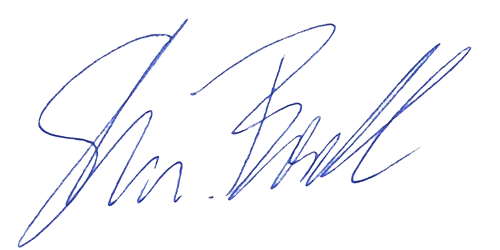
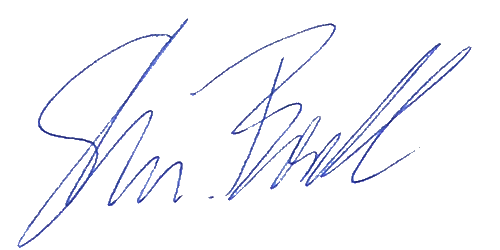
Better map and signature, better stylling, css cleanout

diff --git a/folder_css/style.css b/folder_css/style.css
@@ -20,14 +20,9 @@
 /* #region jobs to-do */
 /*
 !                           to-do 
-todo    Signatur richtig machen
-todo    Porjekte Headline with small display - decision
-todo    Bei der Navbar muss irgendeine coole Grafik, Animation oder ähnliches passieren, damit das nicht so fad ist.
-todo    Header navbar overflow at small screens
-todo    Animation header and hedlines
-todo    Media queries für h1!
-todo    Teste den  media querie in der :root ob die eine Auswirkung hat.
-todo    Bei den Projekten: Das die Position der Beschreibung von der Länge des Links bhängt ist alles andere als optimal! 
+todo    handle navbar overflow on small screens!
+todo    project-headline sticky position doesnt work so good on small display.
+todo    Bei den Projekten: Das Position der Beschreibung von der Länge des Links bhängt ist alles andere als optimal! 
 todo    about page: Mach eine Fotoserie daraus mit hovers, damit sich da was tut. 
 todo    about page Map muss gemacht werden (Farbanpaasung + Marker in Wien [vielleicht mit hover ])
 todo    Bei translate ändert sich die Textlänge stark, dass bitte beim Landkarten re-design berücksichtigen (Größe)!
@@ -40,7 +35,6 @@ todo    Finish Table of content. All commented out? Summed all possible rules?
 /*#region CSS-Setup */
 
 /*? ===  font(s) === */
-
 /* futura */
 @import url("https://use.typekit.net/izw3hmc.css");
 
@@ -71,66 +65,58 @@ todo    Finish Table of content. All commented out? Summed all possible rules?
   /* ==================  
 ?    ===  Colour-Palette  ===
 .     ================== */
-
-  --main-black: hsl(0, 0%, 0%);
-  --main-white: hsl(0, 0%, 100%);
-  --main-red: hsl(0, 100%, 50%);
-  --main-yellow: hsl(60, 100%, 50%);
-
-  --prime-blueviolett: hsl(238, 56%, 19%);
-  --prime-darkgrey: hsl(330, 2%, 17%);
-  --prime-green: hsl(95, 63%, 36%);
-  --prime-yellow-dark: hsl(43, 100%, 50%);
-  --prime-orange: hsl(24, 100%, 50%);
-  --prime-grapefruit: hsl(3, 83%, 64%);
-  --prime-manner: hsl(10, 60%, 80%);
-  --prime-lightgrey: rgb(178, 182, 160);
-  --prime-pink: hsl(330, 100%, 50%);
-  --prime-pinkviolett: hsl(300, 100%, 50%);
-  --prime-intense-blue: hsl(240, 100%, 49%);
-  --prime-pastell-blue: hsl(201, 79%, 46%);
-  --prime-torquise: rgb(8, 253, 216);
-
-  --wkd-grey: rgb(107, 106, 106);
-  --wkd-midgrey: rgb(38, 38, 38);
+  --wkd-black: rgb(0, 0, 0);
   --wkd-darkgrey: rgb(29, 29, 29);
+  --wkd-midgrey: rgb(61, 61, 61);
+  --wkd-grey: rgb(107, 106, 106);
+  --wkd-lightgrey: rgb(178, 182, 160);
+  --wkd-white: rgb(255, 255, 255);
+  --wkd-red: rgb(255, 0, 0);
+  --wkd-green: rgb(82, 150, 34);
+  --wkd-intense-blue: rgb(0, 0, 250);
+  --wkd-pastell-blue: rgb(25, 145, 210);
+  --wkd-torquise: rgb(8, 253, 216);
+  --wkd-blueviolett: rgb(21, 23, 76);
+  --wkd-yellow: rgb(255, 255, 0);
+  --wkd-yellow-dark: rgb(255, 183, 0);
+  --wkd-orange: rgb(255, 102, 0); /* filter: brightness(0) saturate(100%) invert(44%) sepia(24%) saturate(4068%) hue-rotate(1deg) brightness(98%) contrast(106%); */
+  --wkd-grapefruit: rgb(239, 95, 87);
+  --wkd-pink: rgb(255, 0, 128);
+  --wkd-pinkviolett: rgb(255, 0, 255);  /* filter: brightness(0) saturate(100%) invert(19%) sepia(63%) saturate(4179%) hue-rotate(293deg) brightness(123%) contrast(136%); */
+  --wkd-manner: rgb(235, 184, 173);
 }
 
 :root.theme_dark{
 
 /*? === design === */
-
 --main-colour: var(--wkd-darkgrey);
 --main-headlines: var(--wkd-grey);
---counter-colour: var(--main-black);
---accent-colour-one: var(--prime-orange);
+--counter-colour: var(--wkd-black);
+--accent-colour-one: var(--wkd-orange);
 --design-strokes-colour: var(--main-headlines);
---design-strokes-accent-colour: var(--prime-pinkviolett);
---shadows: var(--main-white);
+--design-strokes-accent-colour: var(--wkd-pinkviolett);
+--shadows: var(--wkd-white);
 
 /*? === text === */
---text-main-colour: var(--main-white);
+--text-main-colour: var(--wkd-white);
 --text-optimal-width: clamp(45ch, 50%, 75ch);
---link-hover-color: var(--main-red);
+--link-hover-color: var(--wkd-red);
 
 }
 
 :root.theme_orange{
 
 /*? === design === */
-  
-  --main-colour: var(--prime-orange);
-  --counter-colour: var(--main-black);
-  --accent-colour-one: var(--prime-pink);
+  --main-colour: var(--wkd-orange);
+  --counter-colour: var(--wkd-black);
+  --accent-colour-one: var(--wkd-pink);
   --design-strokes-colour: var(--main-headlines);
-  --shadows: var(--main-white);
+  --shadows: var(--wkd-white);
   
 /*? === text === */
-
---text-main-colour: var(--main-white);
+--text-main-colour: var(--wkd-white);
   --text-optimal-width: clamp(45ch, 50%, 75ch);
-  --link-hover-color: var(--main-red);
-
+  --link-hover-color: var(--wkd-red);
 }
 
 /* #endregion */
@@ -230,7 +216,7 @@ h3 {
 }
 
 .introduction-headline-outro {
-  color: var(--prime-lightgrey);
+  color: var(--wkd-lightgrey);
 }
 
 /* links */
@@ -242,8 +228,7 @@ a {
 header,
 nav,
 ul,
-.div-socialmedia,
-.projects {
+.div-socialmedia {
   display: flex;
 }
 
@@ -474,12 +459,11 @@ margin-block: 2rem;
 /* ? section(s) */
 
 .projects {
-  filter: blur(1rem);
-  transition: all 500ms;
   display: flex;
   flex-wrap: wrap;
-  justify-content: center;
-  gap: 6rem;
+  gap: 5rem;
+  filter: blur(1rem);
+  transition: all 500ms;
 }
 
 .project-one,
@@ -496,35 +480,26 @@ margin-block: 2rem;
 /* ? projects-image */
 
 .image-projects {
-  margin: auto;
-  aspect-ratio: 1/1;
  filter: drop-shadow(0rem -1rem 3rem white);
 }
 
 /* ? projects-div's */
 
 .div-projects-image {
-  display: flex;
-  width: max(200px, 20%);
+  width: 20vw;
   margin-left: auto;
   margin-right: auto;
 }
 
 .div-projects-description {
-  display: flex;
-  width: clamp(35ch, 30%, 75ch);
-  flex-direction: column;
   font-size: var(--fs-600);
-  padding-left: 1rem;
-  padding-right: 1rem;
+  width: var(--text-optimal-width);
   margin-left: auto;
   margin-right: auto;
-  justify-content: center;
 }
 
 .projects h3 {
-  width: 60%;
-  text-align: start;
+  width: fit-content;
 }
 
 .projects p {
@@ -534,25 +509,27 @@ margin-block: 2rem;
 /* ? projects links */
 
 .projects a {
-  align-self: center;
+  width: 20vw;
+  margin-left: auto;
+  margin-right: auto;
+  margin-top: auto;
+  margin-bottom: auto;
   font-size: var(--fs-600);
   font-weight: bold;
   position: relative;
-  margin-left: auto;
-  margin-right: auto;
 }
 
 .project-one a,
 .project-three a {
-  color: var(--main-red);
+  color: var(--wkd-red);
 }
 
 .project-two a {
-  color: var(--prime-intense-blue);
+  color: var(--wkd-intense-blue);
 }
 
 .project-four a {
-  color: var(--main-white);
+  color: var(--wkd-white);
 }
 
 /* #endregion */
@@ -640,6 +617,7 @@ margin-block: 2rem;
   margin-top: 4rem;
   margin-left: auto;
   margin-right: auto;
+  filter: ;
 }
 
 /* #endregion */
@@ -1132,17 +1110,12 @@ border-color: var(--design-strokes-accent-colour);
 width: 2rem;
 }
 
-/* ? map  */
-.div-map:hover {
-  border: solid 2px var(--design-strokes-accent-colour);
-  z-index: 3;
-}
-
 /* ? map circles */
 .div-map:hover::after {
-  border-color: var(--prime-pinkviolett);
+  border-color: var(--wkd-pinkviolett);
   transform: scale(2);
 }
+
 
 /* ? contact headline */
 

diff --git a/about.html b/about.html
@@ -70,7 +70,7 @@
 
       <div class="about-div-map">
         <div class="div-map">
-        <img src="folder_graphics/folder_images/google_maps_europa.png" class="about-images about-image-map">
+        <img src="folder_graphics/folder_images/google_maps_europa_edited.png" class="about-images about-image-map">
         <img src="folder_graphics/folder_images/sb_donaumarina.jpg" class="about-images about-image-donaumarina">      
       </div>
 
